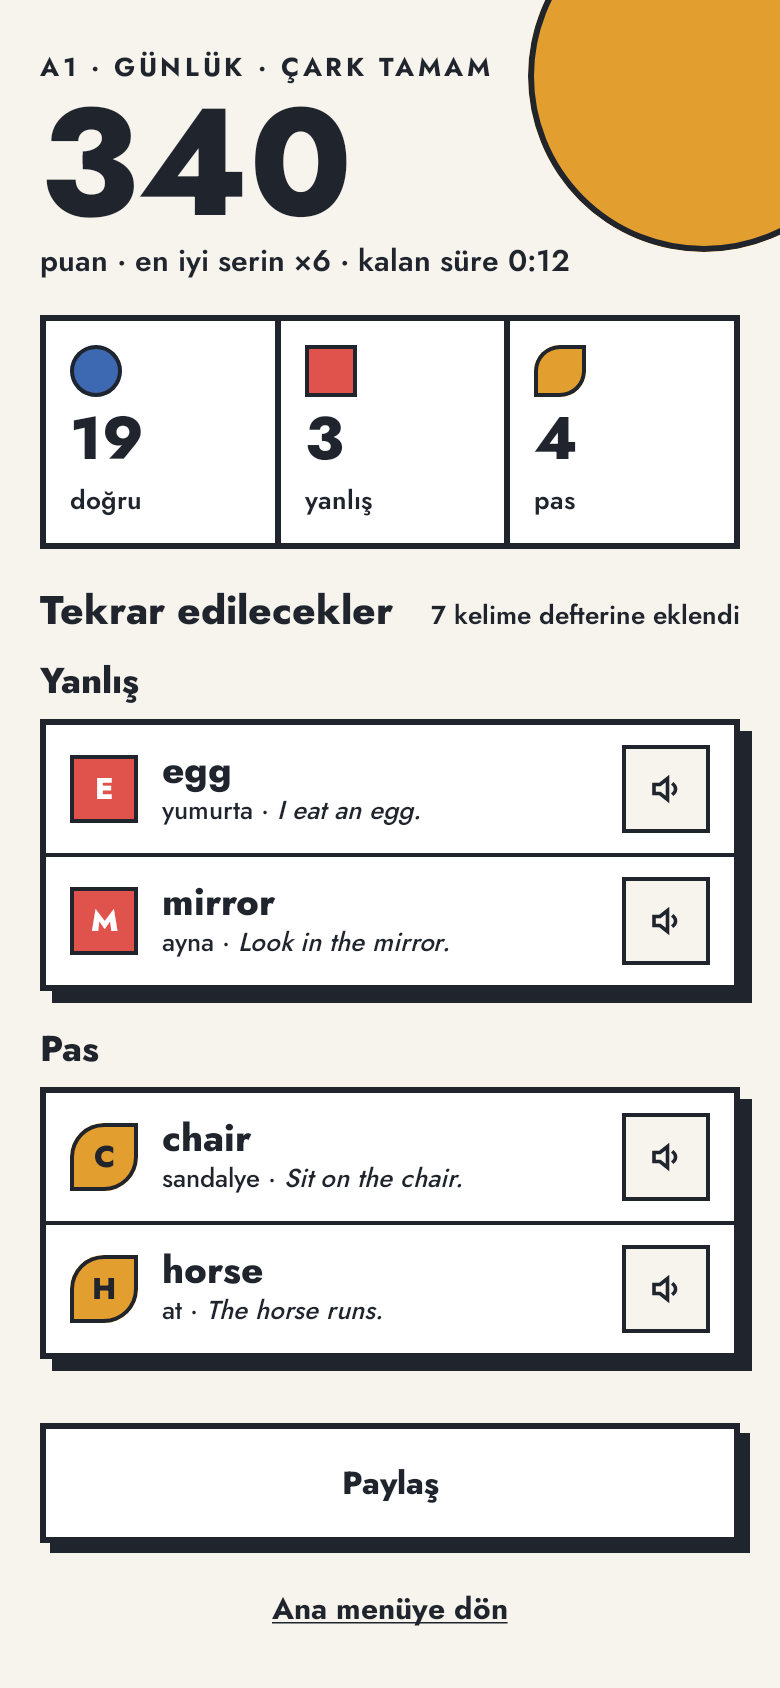
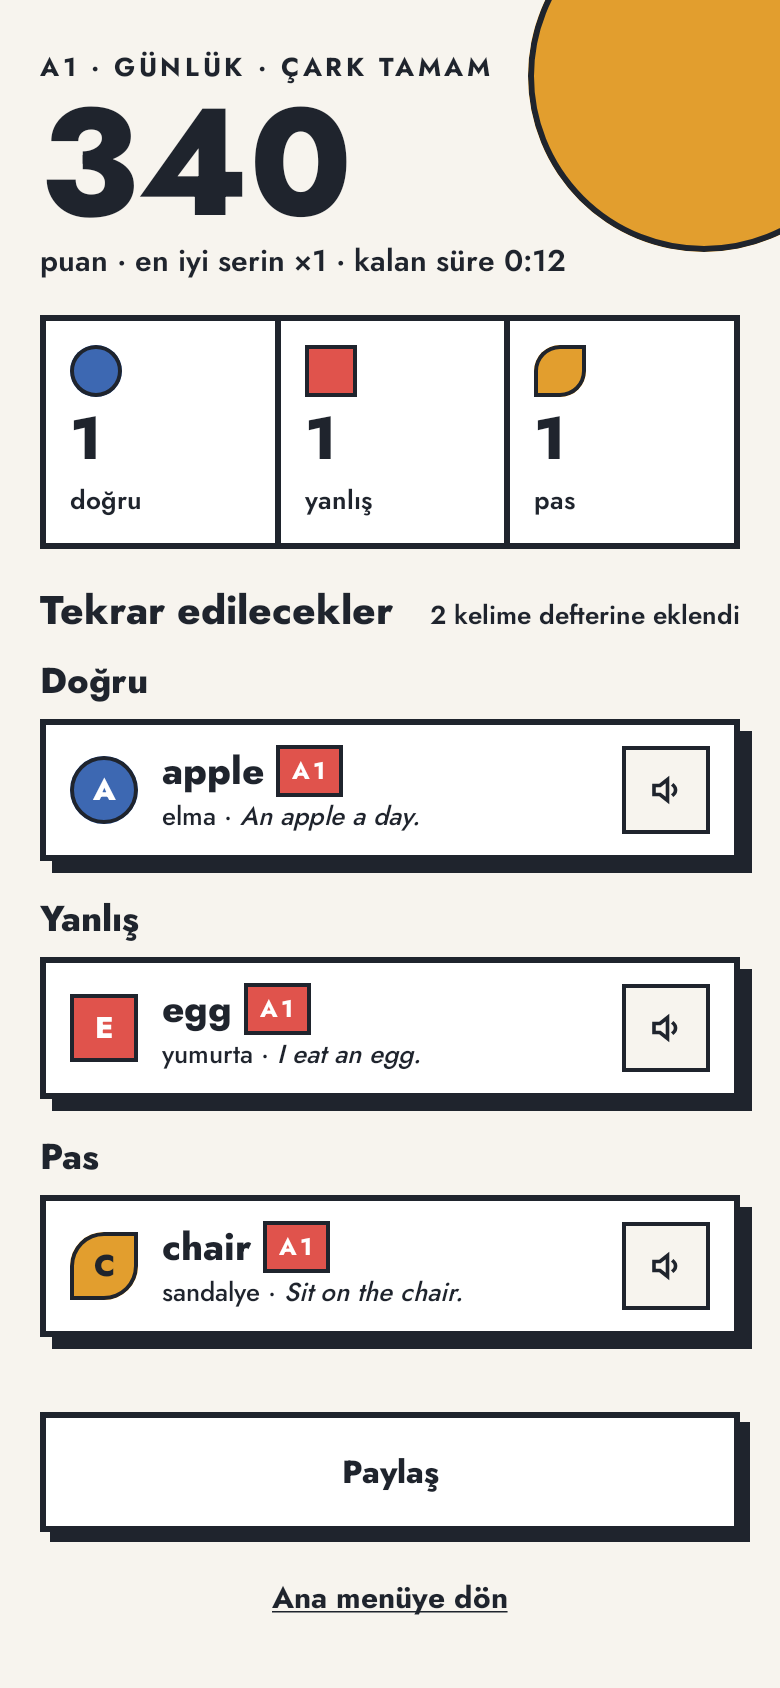
test(game): derive result sample counts from rows and re-record screenshots

diff --git a/feature/game/src/commonMain/kotlin/dev/talhabayhan/lexi/feature/game/result/ResultSamples.kt b/feature/game/src/commonMain/kotlin/dev/talhabayhan/lexi/feature/game/result/ResultSamples.kt
@@ -4,45 +4,89 @@ import dev.talhabayhan.lexi.core.designsystem.component.ReviewOutcome
 import dev.talhabayhan.lexi.core.domain.game.GameMode
 import dev.talhabayhan.lexi.core.domain.game.GameOverReason
 import dev.talhabayhan.lexi.core.domain.model.Level
+import kotlinx.collections.immutable.ImmutableList
 import kotlinx.collections.immutable.persistentListOf
+import kotlinx.collections.immutable.toPersistentList
 
 /** The design's sample data (`06-result.html`) for previews and screenshot tests; content, not UI copy. */
 internal object ResultSamples {
-    // design sample, not user-facing
-    private val chair = ReviewRowUi('C', "chair", "sandalye", "Sit on the chair.", ReviewOutcome.Passed)
-    private val egg = ReviewRowUi('E', "egg", "yumurta", "I eat an egg.", ReviewOutcome.Wrong)
-    private val horse = ReviewRowUi('H', "horse", "at", "The horse runs.", ReviewOutcome.Passed)
-    private val mirror = ReviewRowUi('M', "mirror", "ayna", "Look in the mirror.", ReviewOutcome.Wrong)
 
-    /** `06-result.png`: A1 classic, wheel done, 340 points, best streak ×6, 0:12 left, 19 / 3 / 4, 7 to review. */
-    val design: ResultUiState = ResultUiState(
+    private fun sampleState(
+        level: Level = Level.A1,
+        mode: GameMode = GameMode.CLASSIC,
+        reason: GameOverReason = GameOverReason.ALL_ANSWERED,
+        score: Int = 0,
+        longestStreak: Int = 0,
+        remainingSeconds: Int? = null,
+        groups: ImmutableList<ReviewGroupUi> = persistentListOf(),
+        isLoading: Boolean = false,
+        reviewError: Boolean = false,
+    ): ResultUiState {
+        val correctCount = groups.find { it.outcome == ReviewOutcome.Correct }?.rows?.size ?: 0
+        val wrongCount = groups.find { it.outcome == ReviewOutcome.Wrong }?.rows?.size ?: 0
+        val passedCount = groups.find { it.outcome == ReviewOutcome.Passed }?.rows?.size ?: 0
+        val timeUpAdded = groups.find { it.outcome == ReviewOutcome.TimeUp }
+            ?.rows
+            ?.count { it.isAddedToNotebook } ?: 0
+        val addedCount = wrongCount + passedCount + timeUpAdded
+        val allRows = groups.flatMap { it.rows }.toPersistentList()
+        return ResultUiState(
+            level = level,
+            mode = mode,
+            reason = reason,
+            score = score,
+            longestStreak = longestStreak,
+            remainingSeconds = remainingSeconds,
+            correct = correctCount,
+            wrong = wrongCount,
+            passed = passedCount,
+            addedToNotebook = addedCount,
+            groups = groups,
+            rows = allRows,
+            hiddenRows = 0,
+            isLoading = isLoading,
+            reviewError = reviewError,
+        )
+    }
+
+    /** `06-result.png`: A1 classic, wheel done, 340 points, best streak ×1, 0:12 left, 1 / 1 / 1, 2 to review. */
+    val design: ResultUiState = sampleState(
         level = Level.A1,
         mode = GameMode.CLASSIC,
         reason = GameOverReason.ALL_ANSWERED,
         score = 340,
-        longestStreak = 6,
+        longestStreak = 1,
         remainingSeconds = 12,
-        correct = 19,
-        wrong = 3,
-        passed = 4,
-        addedToNotebook = 7,
-        rows = persistentListOf(chair, egg, horse, mirror),
-        hiddenRows = 3,
-        isLoading = false,
+        groups = persistentListOf(
+            ReviewGroupUi(
+                outcome = ReviewOutcome.Correct,
+                rows = persistentListOf(
+                    ReviewRowUi('A', "apple", "elma", "An apple a day.", ReviewOutcome.Correct, Level.A1),
+                ),
+            ),
+            ReviewGroupUi(
+                outcome = ReviewOutcome.Wrong,
+                rows = persistentListOf(
+                    ReviewRowUi('E', "egg", "yumurta", "I eat an egg.", ReviewOutcome.Wrong, Level.A1),
+                ),
+            ),
+            ReviewGroupUi(
+                outcome = ReviewOutcome.Passed,
+                rows = persistentListOf(
+                    ReviewRowUi('C', "chair", "sandalye", "Sit on the chair.", ReviewOutcome.Passed, Level.A1),
+                ),
+            ),
+        ),
     )
 
     /** Game ending by time-up with all four review groups: Doğru, Yanlış, Pas, Süre bitti. */
-    val allFourGroups: ResultUiState = ResultUiState(
+    val allFourGroups: ResultUiState = sampleState(
         level = Level.A1,
         mode = GameMode.CLASSIC,
         reason = GameOverReason.TIME_UP,
         score = 280,
-        longestStreak = 5,
+        longestStreak = 1,
         remainingSeconds = 0,
-        correct = 19,
-        wrong = 2,
-        passed = 3,
-        addedToNotebook = 5,
         groups = persistentListOf(
             ReviewGroupUi(
                 outcome = ReviewOutcome.Correct,
@@ -88,52 +132,75 @@ internal object ResultSamples {
                 ),
             ),
         ),
-        isLoading = false,
     )
 
-    /** Practice (design debt): unscored, untimed; the header shows the 19 correct answers instead of "0 puan". */
+    /** Practice (design debt): unscored, untimed; the header shows the correct answers instead of "0 puan". */
     val practice: ResultUiState = design.copy(mode = GameMode.PRACTICE, score = 0, remainingSeconds = null)
 
     /** The review cards could not be read (design debt): the list offers "Tekrar dene". */
-    val reviewError: ResultUiState = design.copy(rows = persistentListOf(), hiddenRows = 0, reviewError = true)
+    val reviewError: ResultUiState = design.copy(
+        groups = persistentListOf(),
+        rows = persistentListOf(),
+        hiddenRows = 0,
+        reviewError = true,
+    )
 
     /** Long texts (English UI): a B2 hardcore game lost on the first miss, multi-word answers, wrapping examples. */
-    val longText: ResultUiState = ResultUiState(
+    val longText: ResultUiState = sampleState(
         level = Level.B2,
         mode = GameMode.HARDCORE,
         reason = GameOverReason.WRONG_IN_HARDCORE,
         score = 1_284,
-        longestStreak = 12,
+        longestStreak = 1,
         remainingSeconds = 97,
-        correct = 14,
-        wrong = 1,
-        passed = 11,
-        addedToNotebook = 12,
-        rows = persistentListOf(
-            ReviewRowUi(
-                'G',
-                "get along with",
-                "biriyle iyi geçinmek, anlaşmak",
-                "My sister and I didn't always get along with each other as children.",
-                ReviewOutcome.Wrong,
+        groups = persistentListOf(
+            ReviewGroupUi(
+                outcome = ReviewOutcome.Correct,
+                rows = persistentListOf(
+                    ReviewRowUi(
+                        'C',
+                        "come up with",
+                        "fikir üretmek, bulmak",
+                        "She came up with a great idea for the project.",
+                        ReviewOutcome.Correct,
+                        Level.B2,
+                    ),
+                ),
             ),
-            ReviewRowUi(
-                'N',
-                "nevertheless",
-                "yine de, buna rağmen",
-                "The weather was terrible; nevertheless, the match went ahead as planned.",
-                ReviewOutcome.Passed,
+            ReviewGroupUi(
+                outcome = ReviewOutcome.Wrong,
+                rows = persistentListOf(
+                    ReviewRowUi(
+                        'G',
+                        "get along with",
+                        "biriyle iyi geçinmek, anlaşmak",
+                        "My sister and I didn't always get along with each other as children.",
+                        ReviewOutcome.Wrong,
+                        Level.B2,
+                    ),
+                ),
             ),
-            ReviewRowUi(
-                'W',
-                "whereabouts",
-                "bulunduğu yer",
-                "Police are still trying to find out the whereabouts of the missing painting.",
-                ReviewOutcome.Passed,
+            ReviewGroupUi(
+                outcome = ReviewOutcome.Passed,
+                rows = persistentListOf(
+                    ReviewRowUi(
+                        'N',
+                        "nevertheless",
+                        "yine de, buna rağmen",
+                        "The weather was terrible; nevertheless, the match went ahead as planned.",
+                        ReviewOutcome.Passed,
+                        Level.B2,
+                    ),
+                    ReviewRowUi(
+                        'W',
+                        "whereabouts",
+                        "bulunduğu yer",
+                        "Police are still trying to find out the whereabouts of the missing painting.",
+                        ReviewOutcome.Passed,
+                        Level.B2,
+                    ),
+                ),
             ),
-            ReviewRowUi('X', "anxiety", "kaygı", "Exams can cause a lot of anxiety.", ReviewOutcome.Passed),
         ),
-        hiddenRows = 8,
-        isLoading = false,
     )
 }

diff --git a/feature/game/src/androidHostTest/kotlin/dev/talhabayhan/lexi/feature/game/result/ResultScreenScreenshotTest.kt b/feature/game/src/androidHostTest/kotlin/dev/talhabayhan/lexi/feature/game/result/ResultScreenScreenshotTest.kt
@@ -64,6 +64,7 @@ class ResultScreenScreenshotTest {
                         passed = 0,
                         correct = 26,
                         addedToNotebook = 0,
+                        groups = kotlinx.collections.immutable.persistentListOf(),
                         rows = kotlinx.collections.immutable.persistentListOf(),
                         hiddenRows = 0,
                     ),
